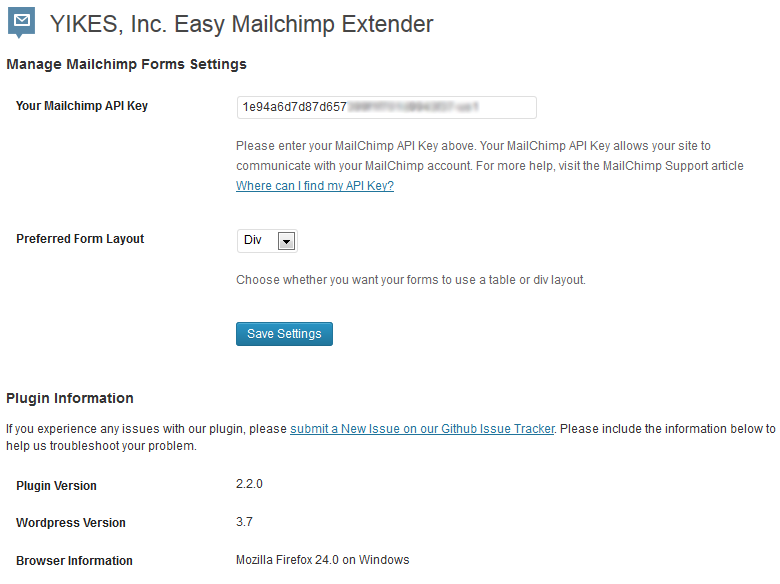
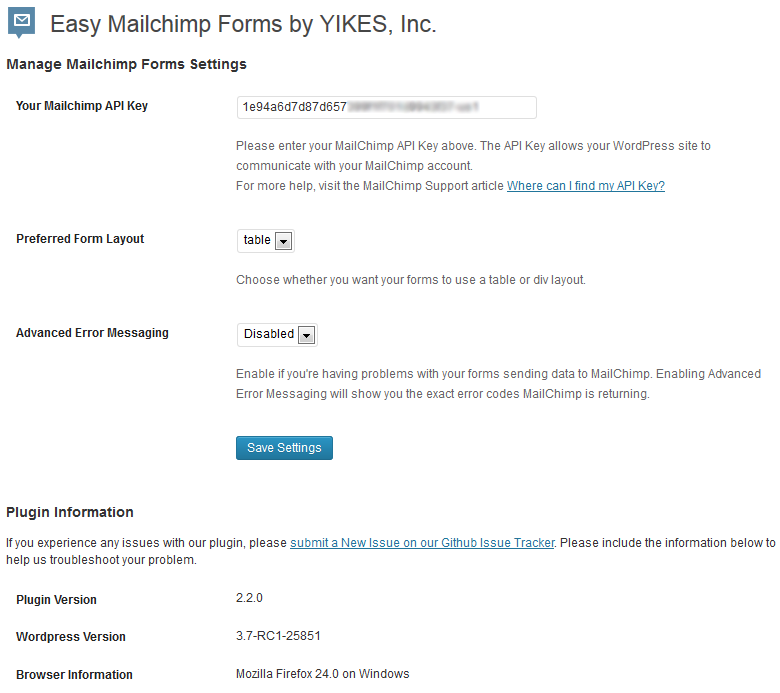
Updated screenshots and plugin info

diff --git a/yikes-inc-easy-mailchimp-extender.php b/yikes-inc-easy-mailchimp-extender.php
@@ -31,7 +31,7 @@ Foundation, Inc., 51 Franklin St, Fifth Floor, Boston, MA  02110-1301  USA
 if(!defined('YKSEME_DEBUG'))						define('YKSEME_DEBUG',		         true);
 if(!defined('YKSEME_VERSION_CURRENT'))				define('YKSEME_VERSION_CURRENT',	'2.2.0');
 if(!defined('YKSEME_REQ_PHP'))						define('YKSEME_REQ_PHP',			'5.0');
-if(!defined('YKSEME_AUTHOR'))						define('YKSEME_AUTHOR',				'YIKES Inc, Carlos Zuniga, Tracy Levesque, Sean Kennedy');
+if(!defined('YKSEME_AUTHOR'))						define('YKSEME_AUTHOR',				'YIKES Inc');
 if(!defined('YKSEME_SITE'))							define('YKSEME_SITE',				site_url().'/');
 if(!defined('YKSEME_PREFIX'))						define('YKSEME_PREFIX',				'ykseme_');
 if(!defined('YKSEME_PATH'))							define('YKSEME_PATH',				ABSPATH.'wp-content/plugins/yikes-inc-easy-mailchimp-extender/');
